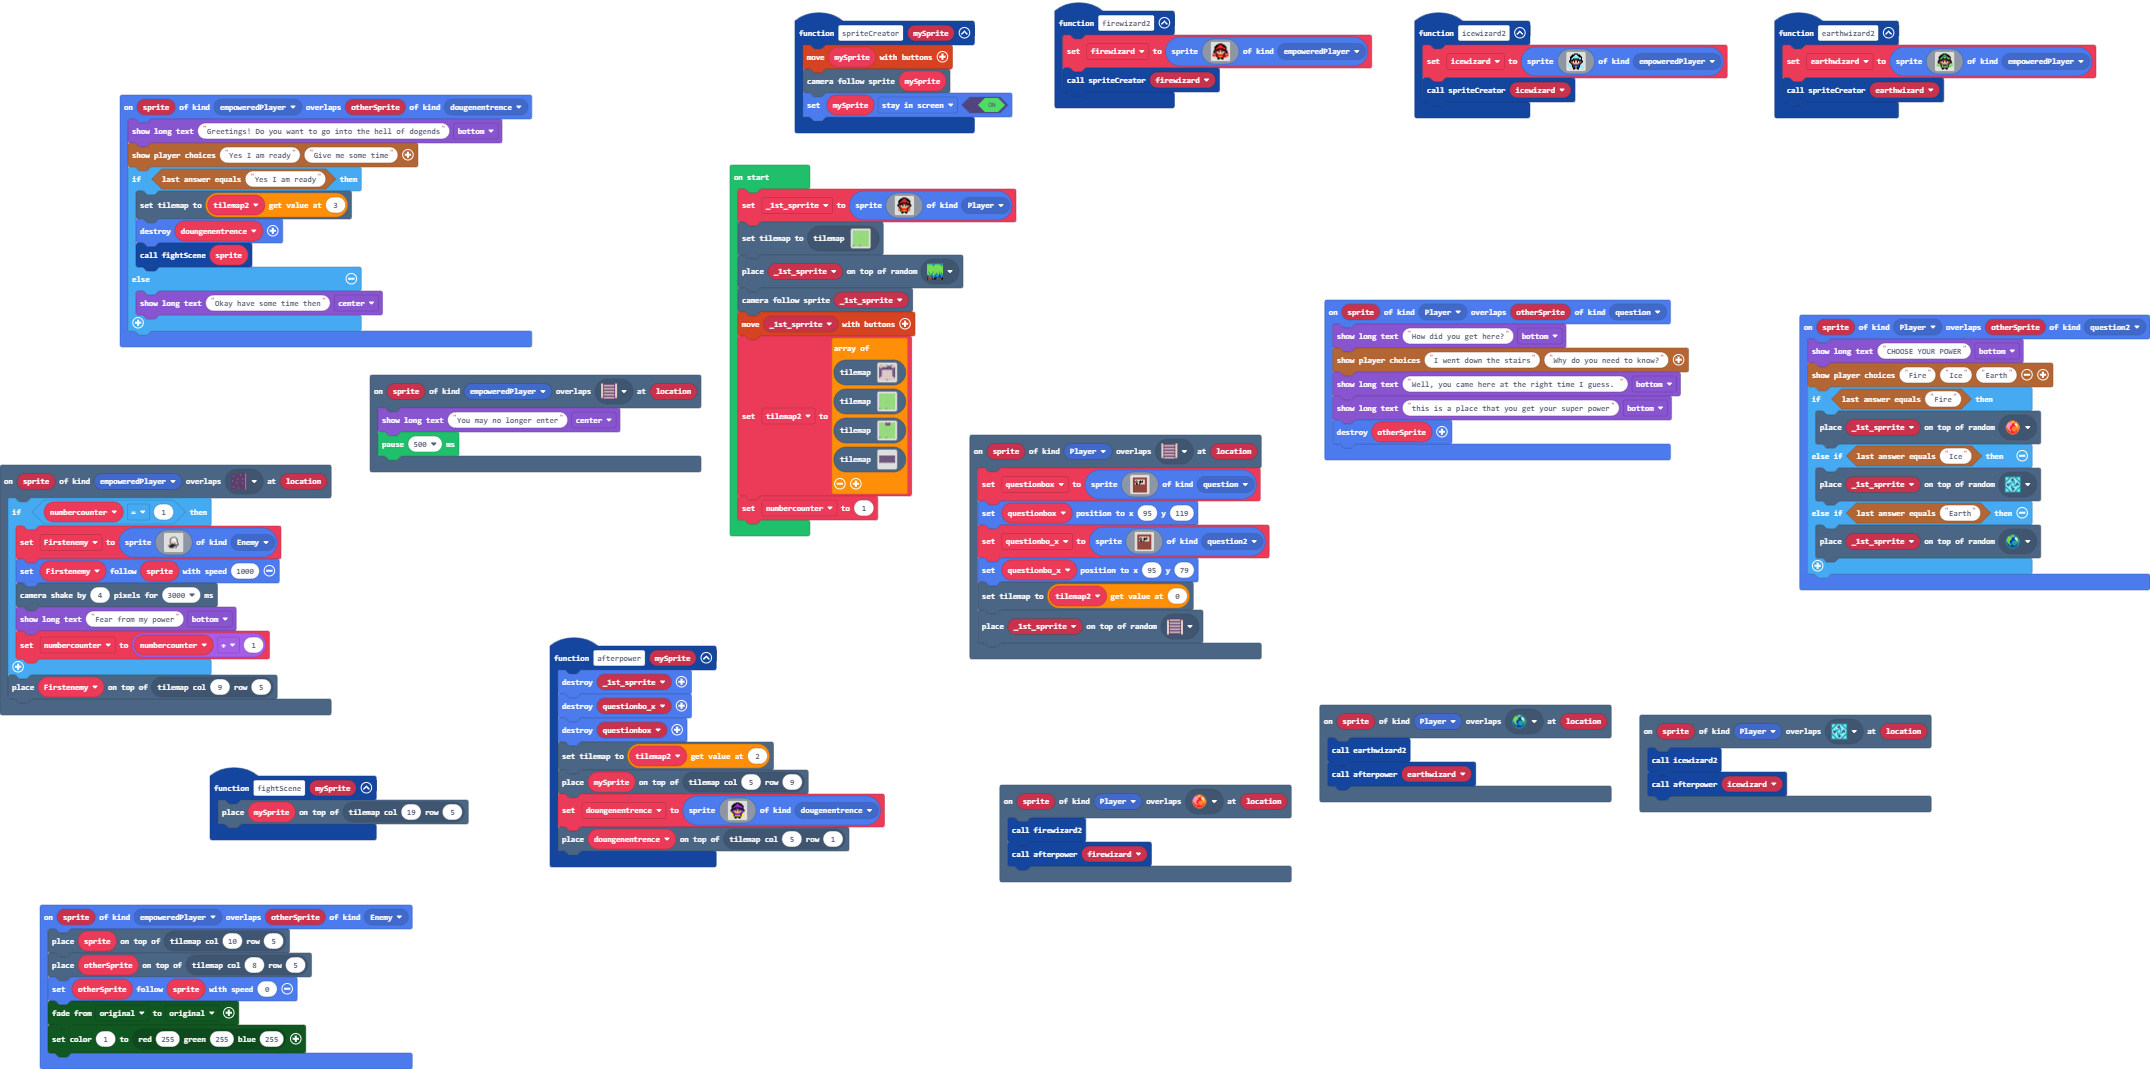
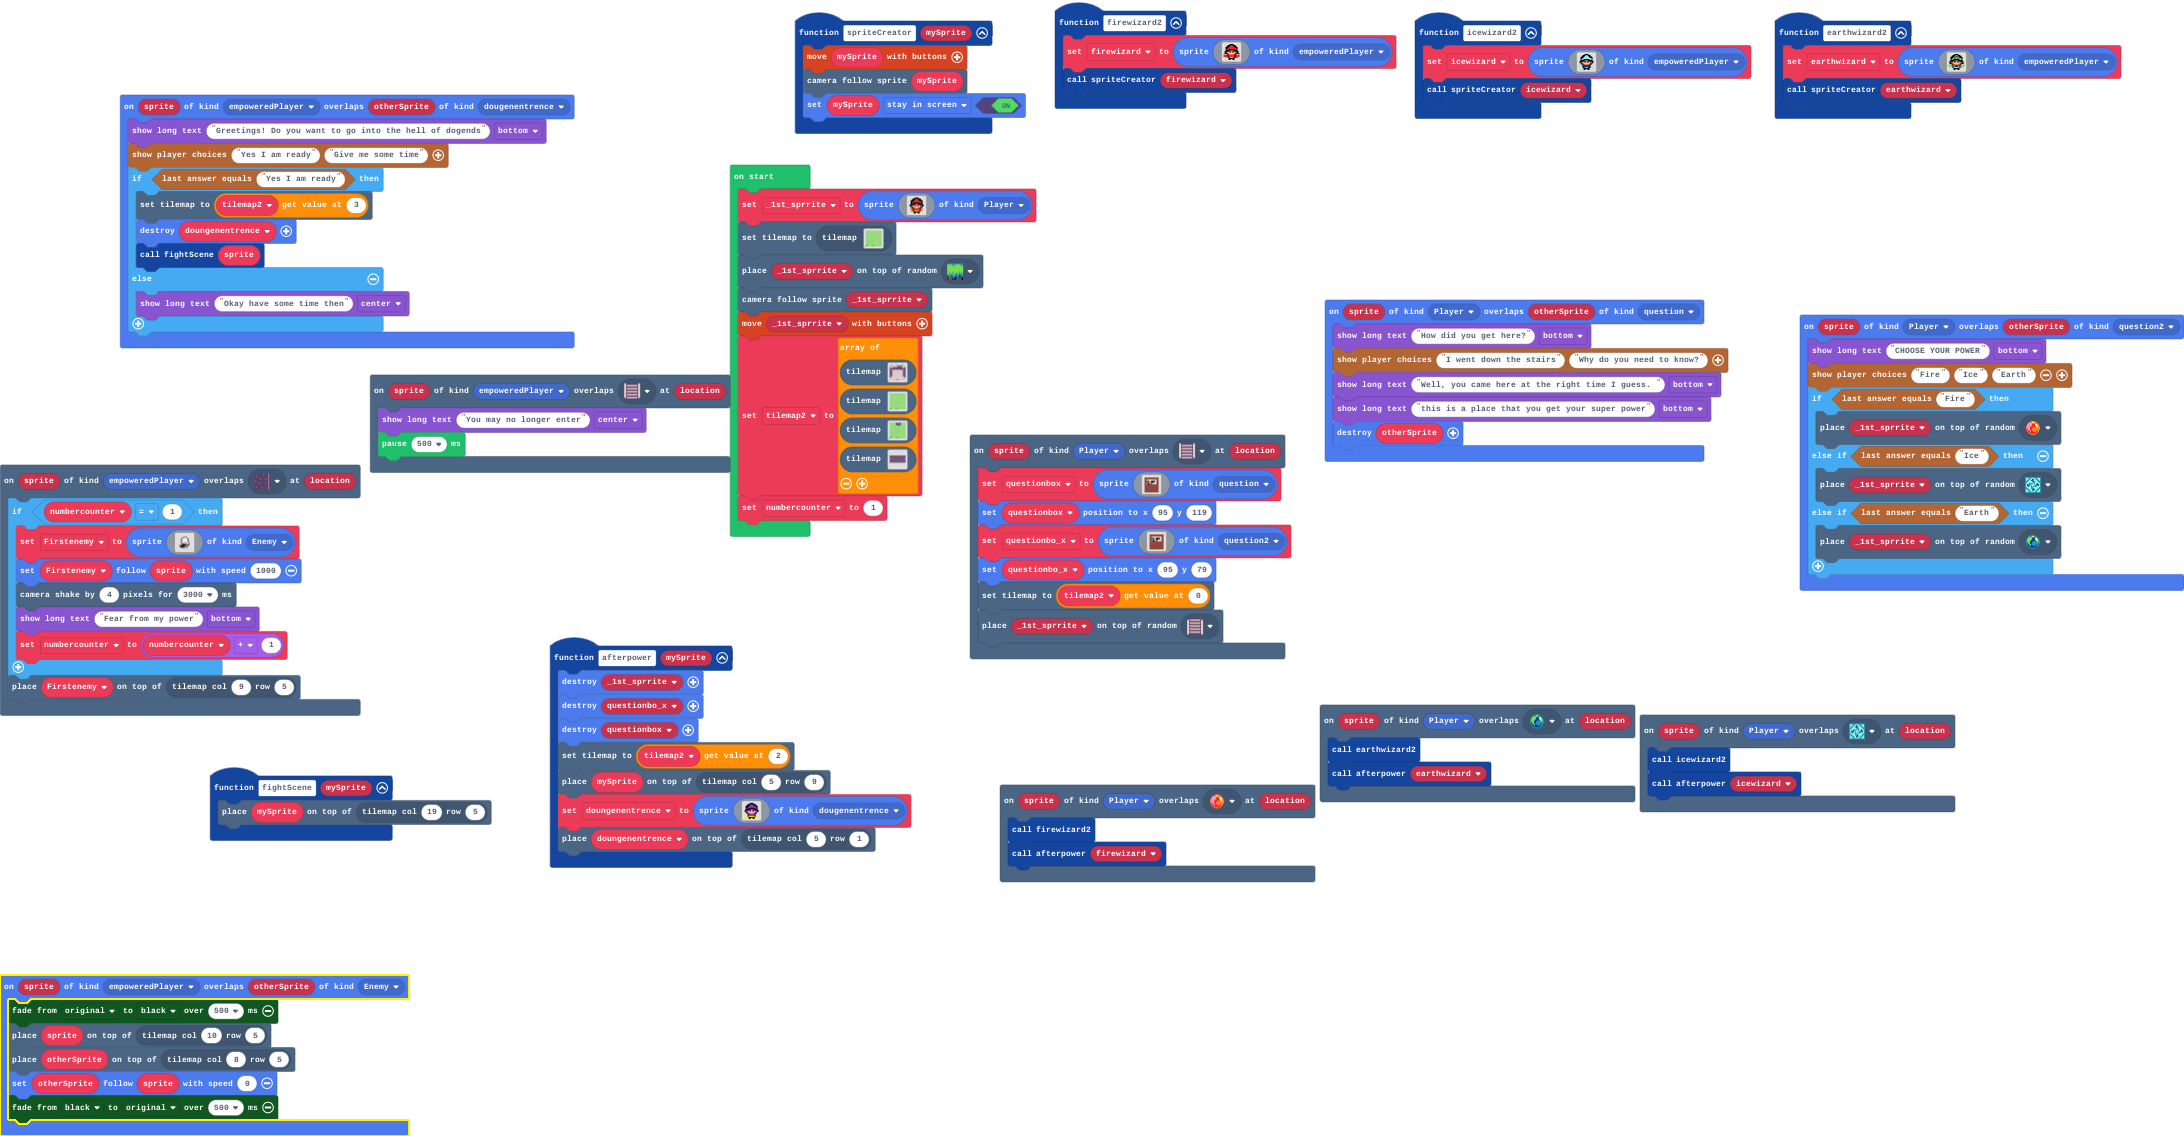
changed the color thing

diff --git a/main.ts b/main.ts
@@ -104,11 +104,11 @@ function earthwizard2 () {
     spriteCreator(earthwizard)
 }
 sprites.onOverlap(SpriteKind.empoweredPlayer, SpriteKind.Enemy, function (sprite, otherSprite) {
+    color.startFade(color.originalPalette, color.Black, 500)
     tiles.placeOnTile(sprite, tiles.getTileLocation(10, 5))
     tiles.placeOnTile(otherSprite, tiles.getTileLocation(8, 5))
     otherSprite.follow(sprite, 0)
-    color.startFade(color.originalPalette, color.originalPalette)
-    color.setColor(1, color.rgb(255, 255, 255))
+    color.startFade(color.Black, color.originalPalette, 500)
 })
 scene.onOverlapTile(SpriteKind.Player, sprites.dungeon.collectibleBlueCrystal, function (sprite, location) {
     earthwizard2()
